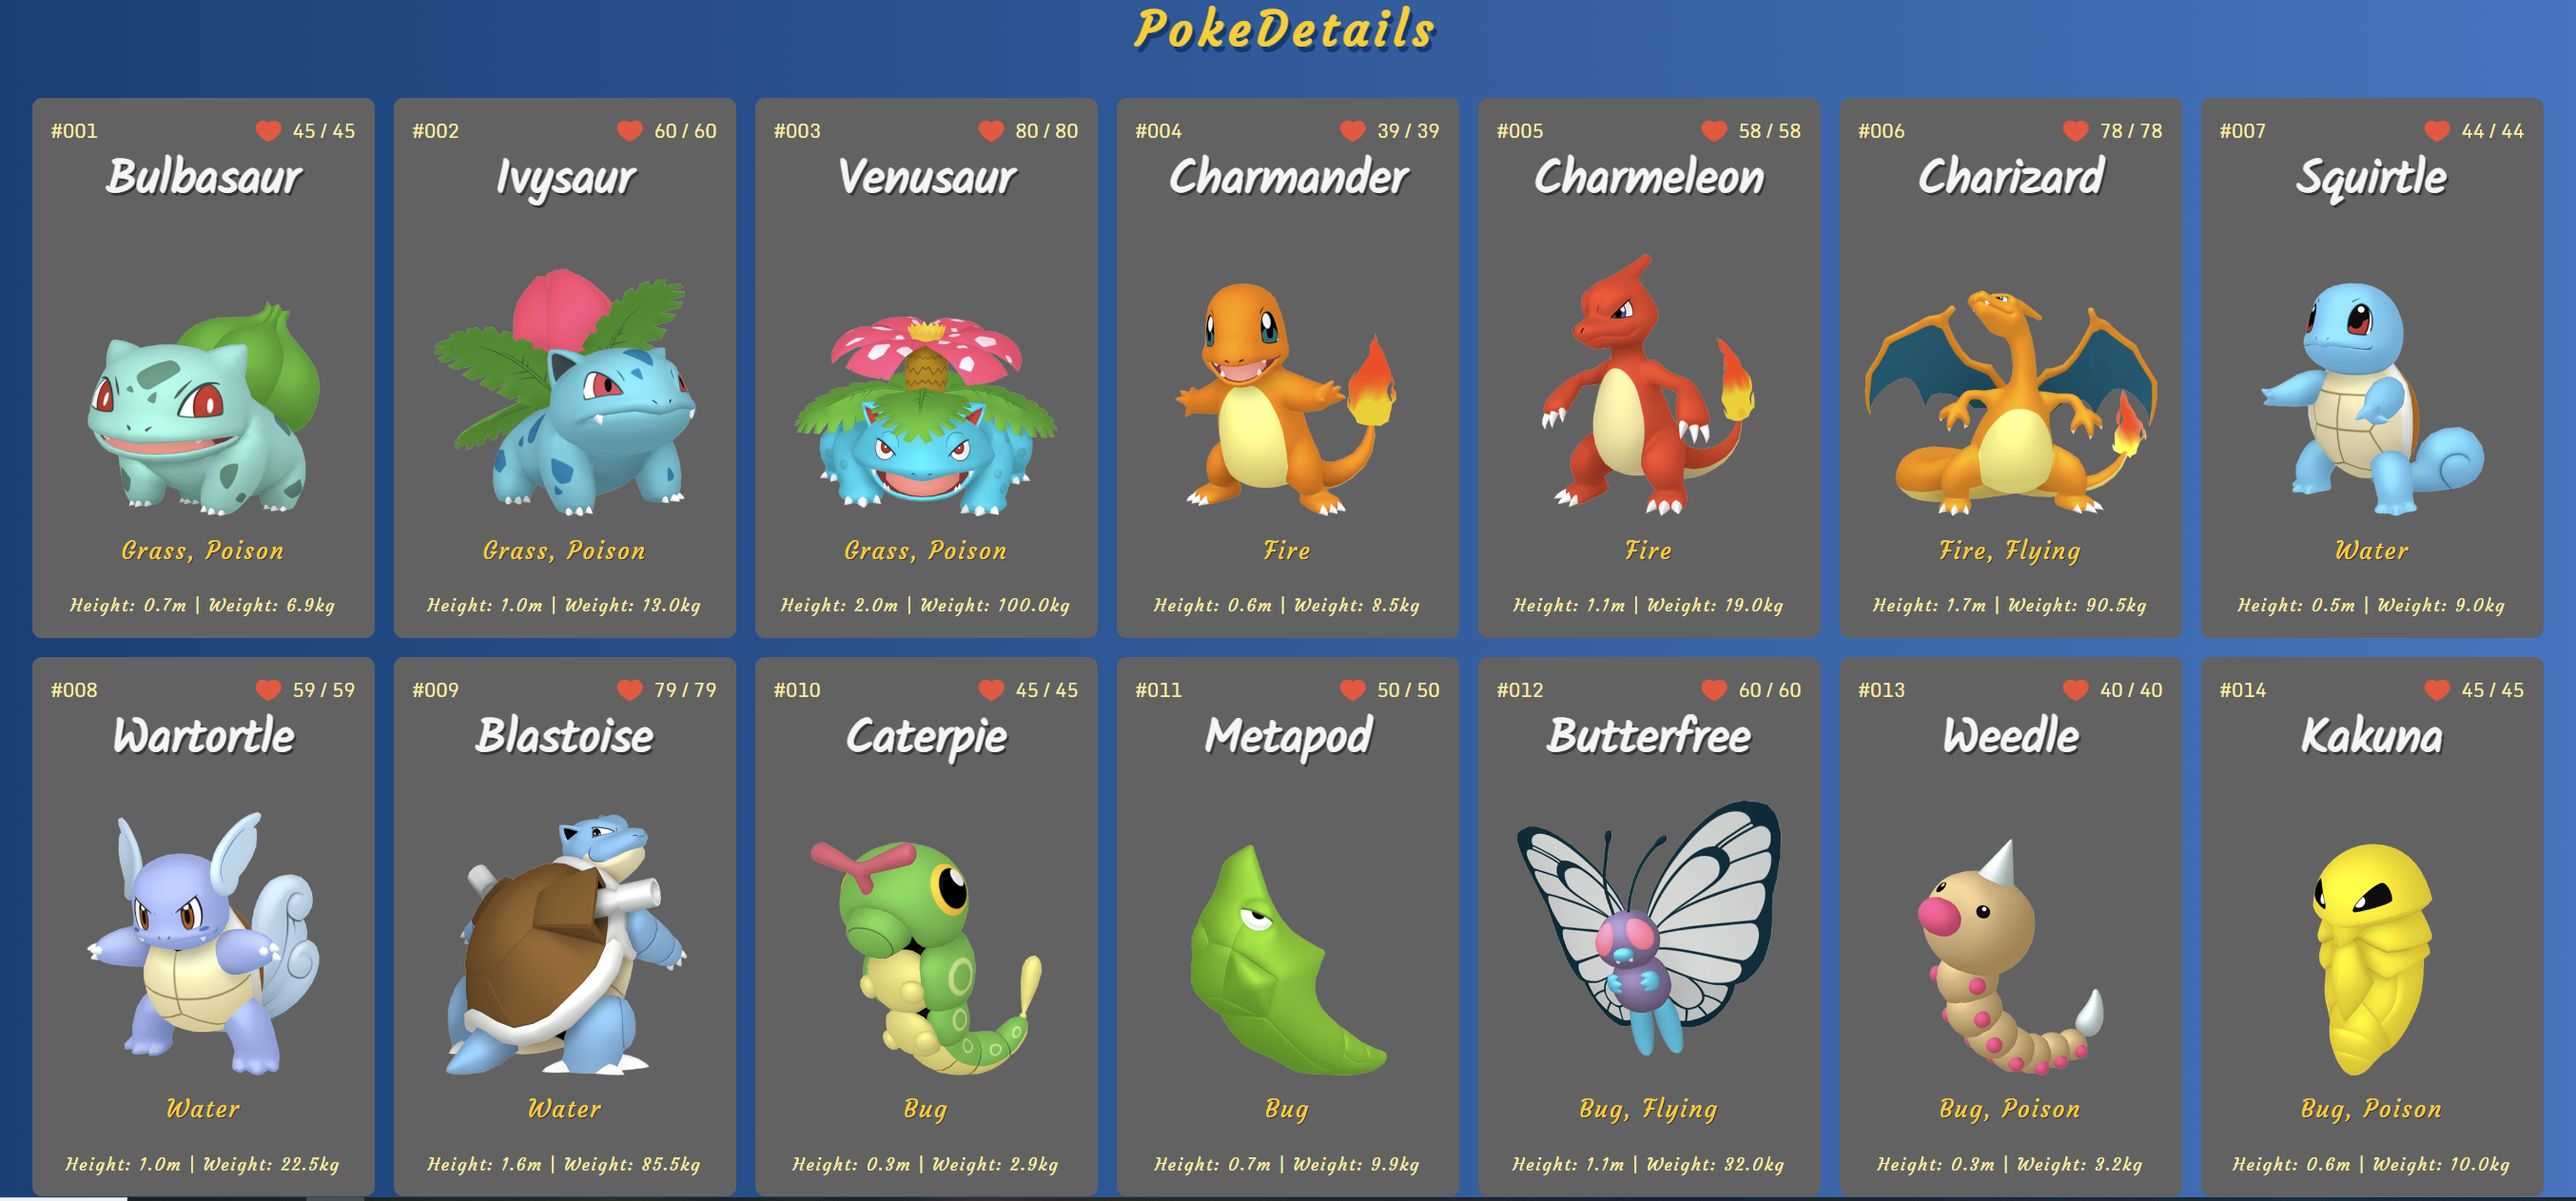
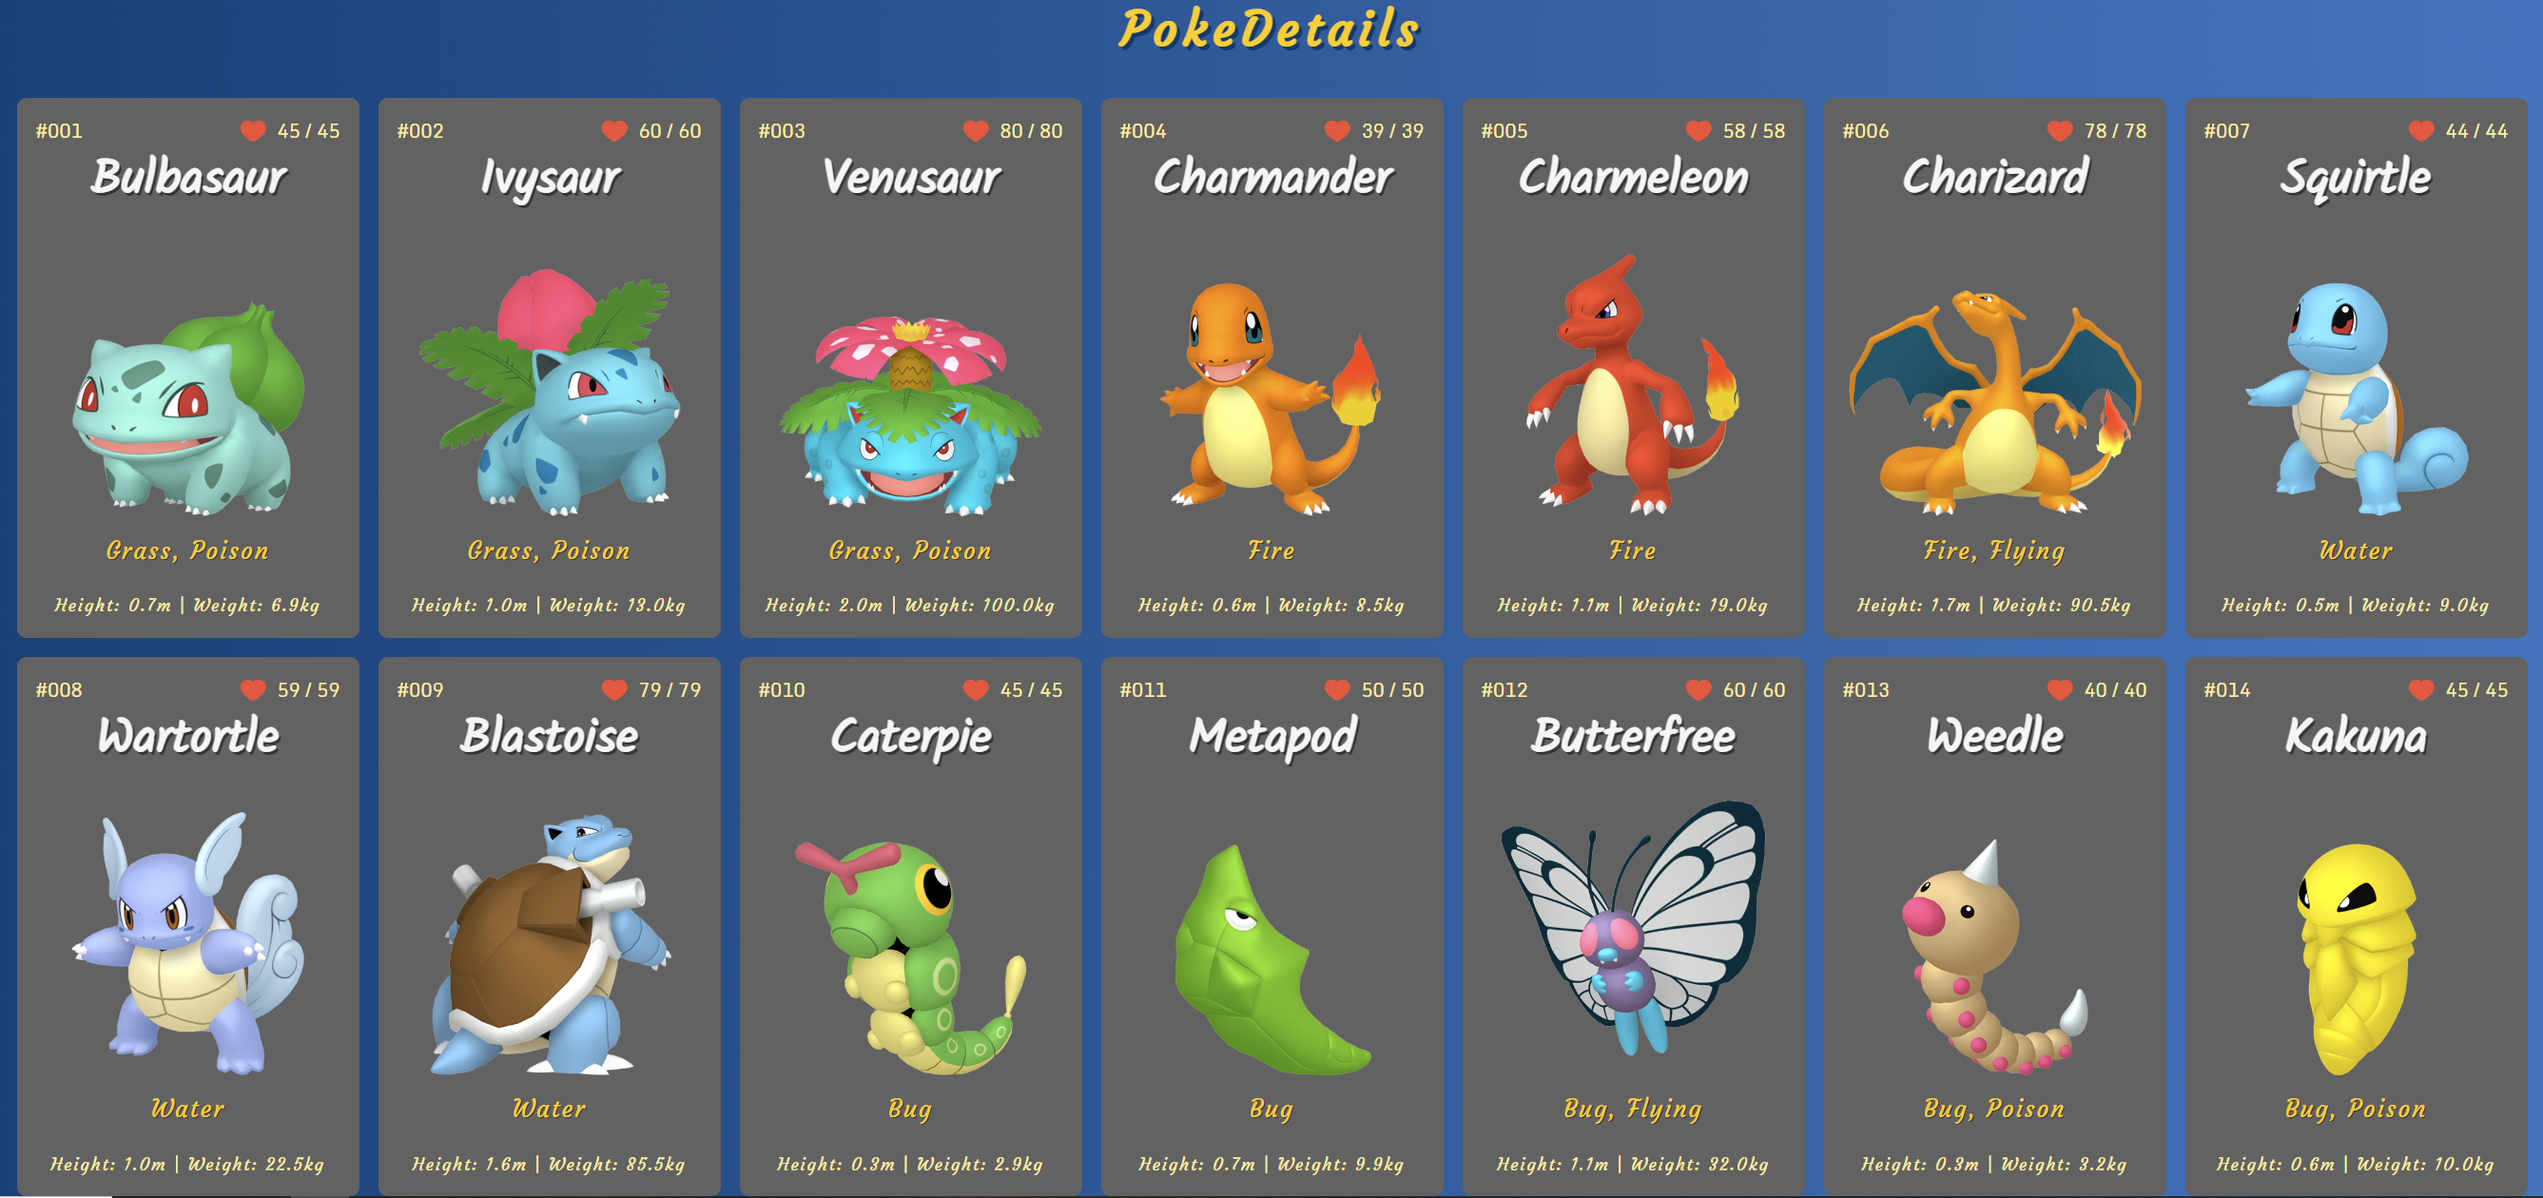
Updated screenshot and app name title adjustments
Modified the app name's text shadow slightly and updated screenshot.png

diff --git a/style.css b/style.css
@@ -137,7 +137,7 @@ h3 {
   font-size: var(--font-size-1000);
   margin: 0.5em 0 0.5em 0;
   color: var(--color-gold);
-  text-shadow: 3px 5px var(--color-navy-blue);
+  text-shadow: 3px 3px var(--color-navy-blue);
   letter-spacing: 0.3rem;
 }
 
